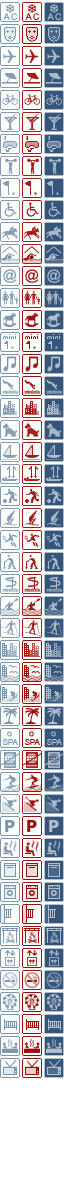
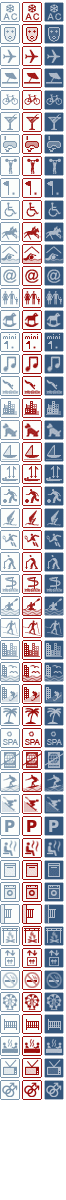
geje

Changed region(s): [[0.6667, 0.8942, 0.9697, 0.925], [0.3333, 0.8942, 0.6364, 0.925], [0.0, 0.8942, 0.303, 0.925]]

diff --git a/public/resources/holidays.css b/public/resources/holidays.css
@@ -317,7 +317,7 @@
 .trip_desc .attr li.hotel_attr_41 { background-position: 0 -882px }
 .trip_desc .attr li.hotel_attr_42 { background-position: 0 -926px }
 .trip_desc .attr li.hotel_attr_43 { background-position: 0 -244px }
-.trip_desc .attr li.hotel_attr_44 { background-position: 0 -948px }
+.trip_desc .attr li.hotel_attr_44 { background-position: 0 -1080px }
 .trip_desc .attr li.hotel_attr_46 { background-position: 0 -1036px }
 .trip_desc .attr li.hotel_attr_64 { background-position: 0 -552px }
 
